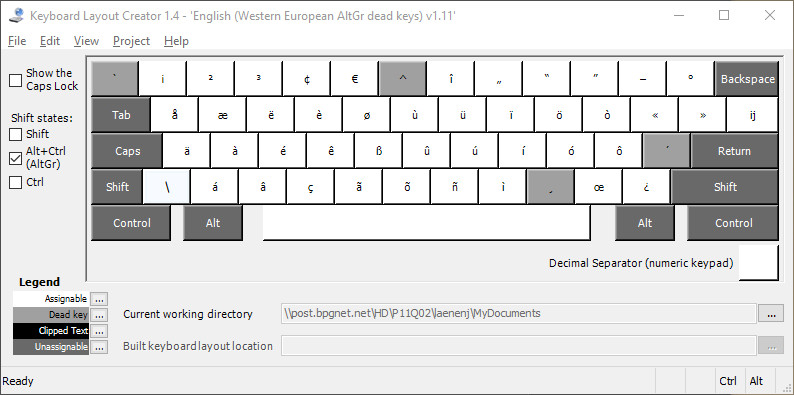
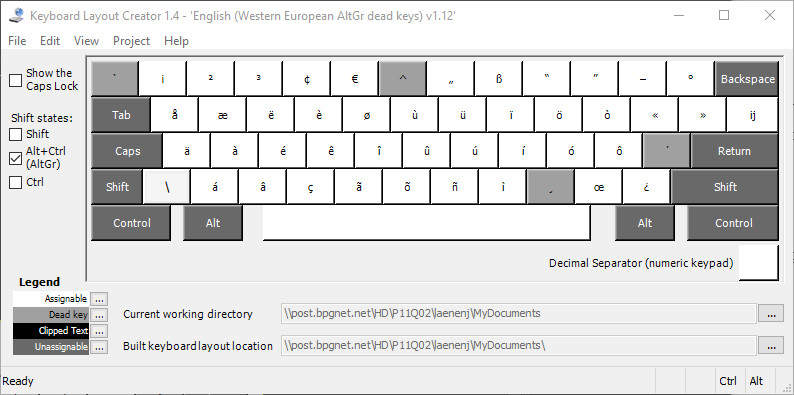
version v1.12 by Adriaan new /usr/share/X11/xkb/symbols/us adapted the Readme.md added line 56, OEM_102 to klc added the new jpegs to show the v1.12 layout

diff --git a/Readme.md b/Readme.md
@@ -4,7 +4,7 @@ I had to change the name of this keyboard into an 8 character string altgrweu an
 
 Some dead keys like dead_greek don't work.
 
-This is version v1.11 by Adriaan.
+This is version v1.12 by Adriaan.
 
 ![AltGrg](AltGr.jpg)
 
